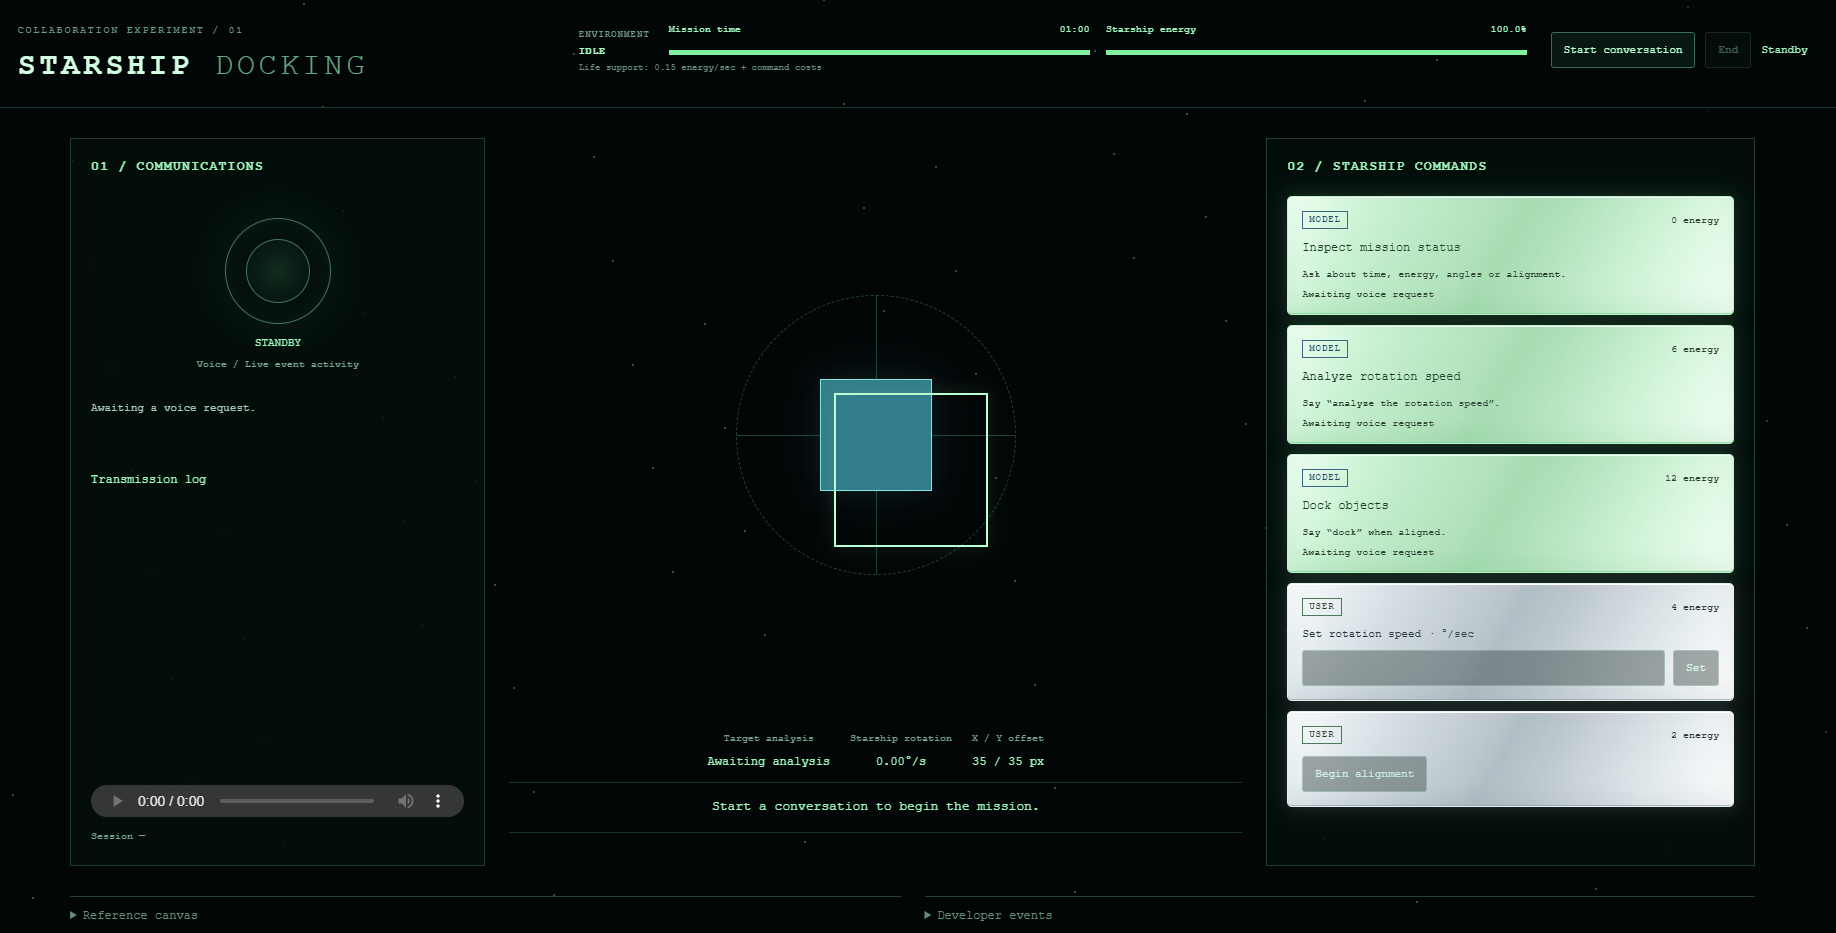
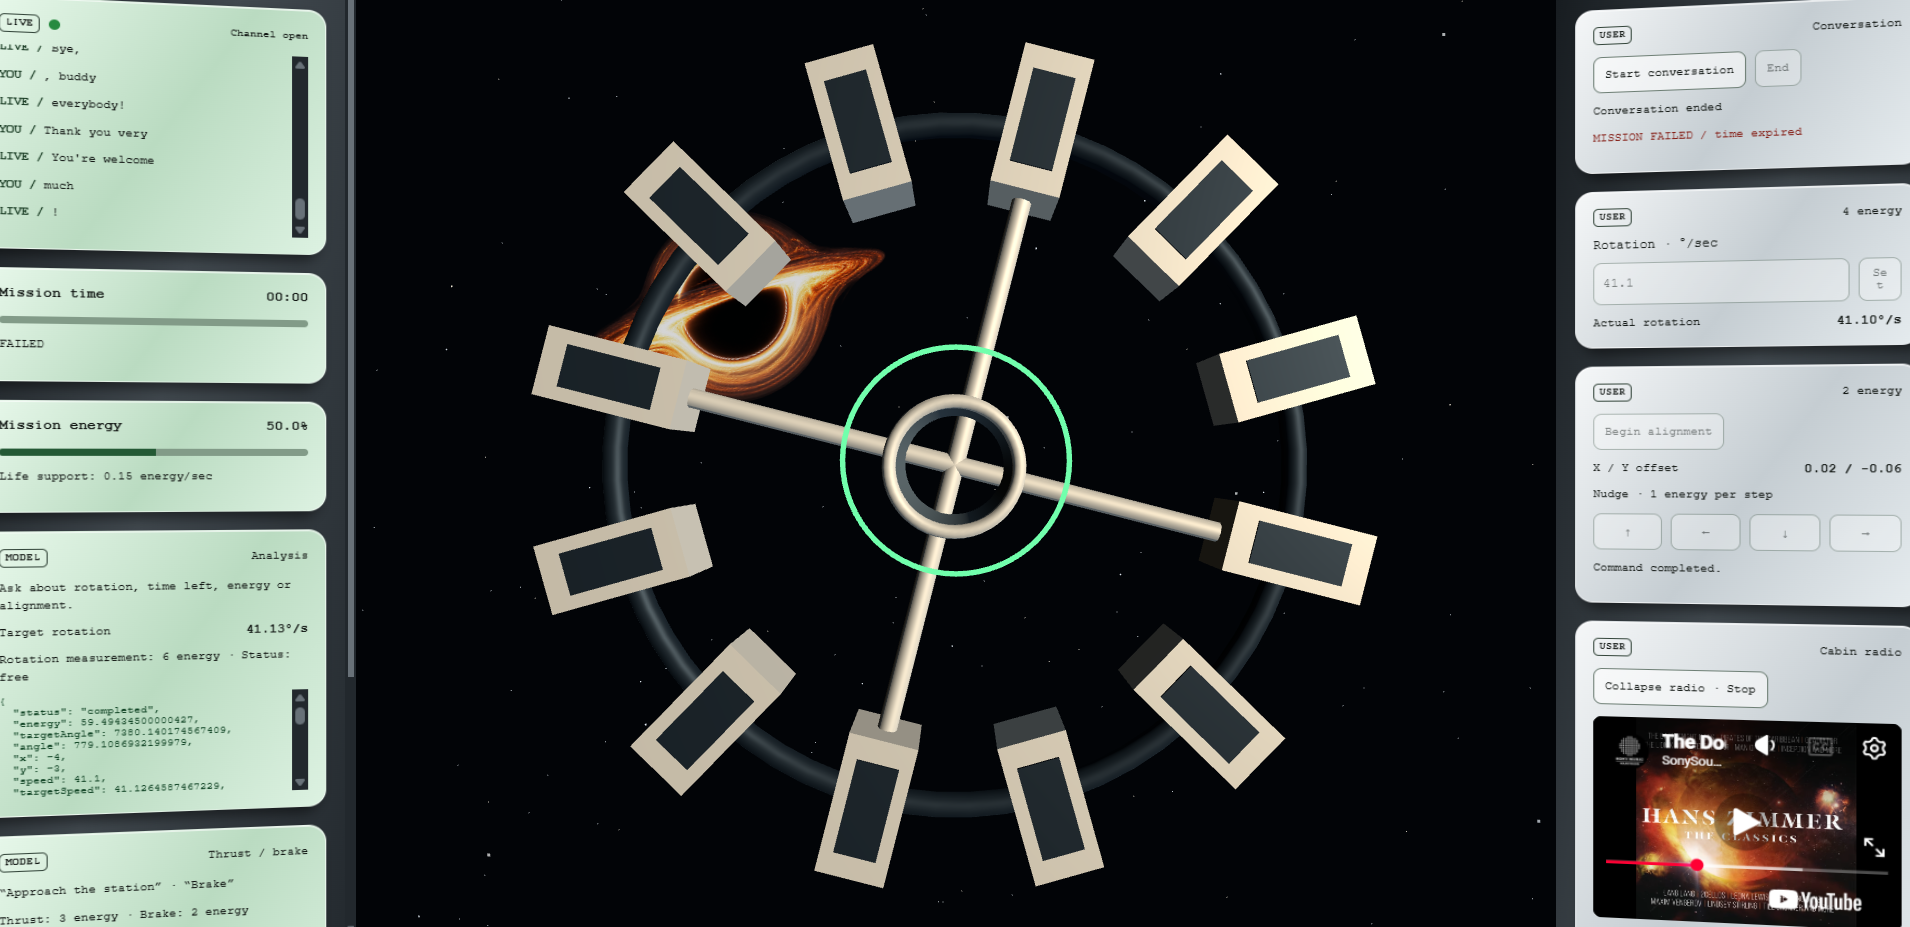
Update scene image and background rotation

diff --git a/src/world.js b/src/world.js
@@ -15,13 +15,13 @@ export class World {
       const material = new THREE.SpriteMaterial({
         map: texture, transparent: true, opacity: 0.84, depthWrite: false,
       });
-      this.blackHole = new THREE.Sprite(material);
-      // Keep the atmosphere in the upper-left of the cockpit viewport rather
-      // than placing it on the central docking path.
+      // Keep the atmosphere in the upper-left of the world background rather
+      // than placing it on the central docking path. It must live in world
+      // space with the stars, not on the camera, so cockpit roll affects both.
+      this.blackHole = new THREE.Mesh(new THREE.PlaneGeometry(16, 16), material);
       this.blackHole.position.set(-11, 8, -45);
-      this.blackHole.scale.set(16, 16, 1);
       this.blackHole.renderOrder = -2;
-      this.camera.add(this.blackHole);
+      this.scene.add(this.blackHole);
     }, undefined, error => console.warn('[Docking] Could not load blackhole.png', error));
     this.scene.add(new THREE.HemisphereLight(0xd5eaff, 0x33302a, 2));
     const light = new THREE.DirectionalLight(0xffeed4, 4);
@@ -105,7 +105,6 @@ export class World {
     const time = performance.now() / 1000;
     for (const star of this.blinkMaterials)
       star.material.opacity = 0.35 + (Math.sin(time * star.speed + star.phase) + 1) * 0.325;
-    if (this.blackHole) this.blackHole.material.rotation = time * 0.008;
     const roll = THREE.MathUtils.degToRad(ship.angle);
     this.station.rotation.z = THREE.MathUtils.degToRad(ship.targetAngle);
     // Pilot nudges use cockpit axes even while the cockpit is rolling.
